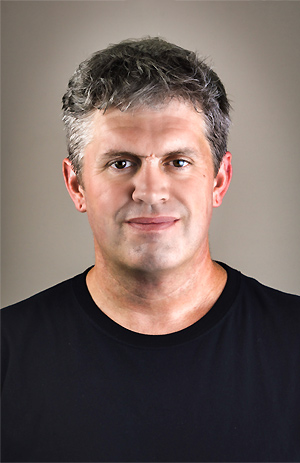
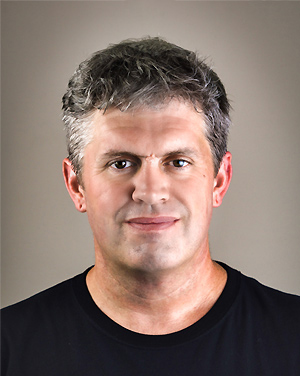
recropping and adding a border radius

diff --git a/src/scss/components/_intro.scss b/src/scss/components/_intro.scss
@@ -72,8 +72,11 @@
   &__photo {
     display: block;
     float: right;
-    margin: 0 0 0.2rem 0.2rem;
-    color: var(--color-theme-feature-text);
+    width: 10rem;
+    margin: 0 0 2rem 2rem;
+    overflow: hidden;
+    z-index: 0;
+    border-radius: 1rem;
 
     &--compact {
       display: none;
